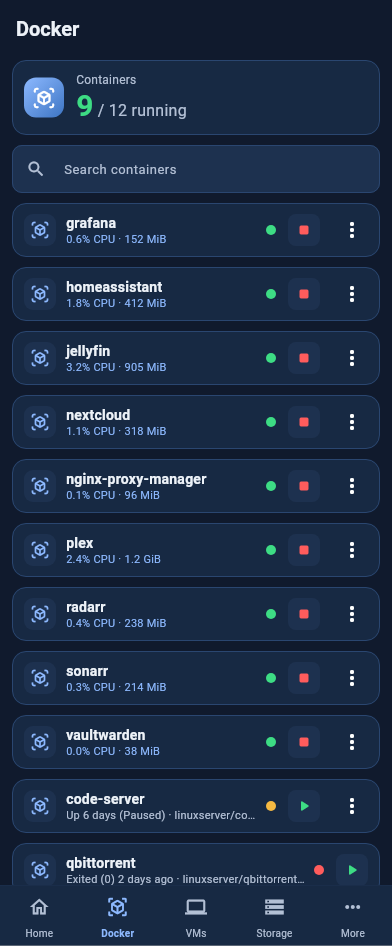
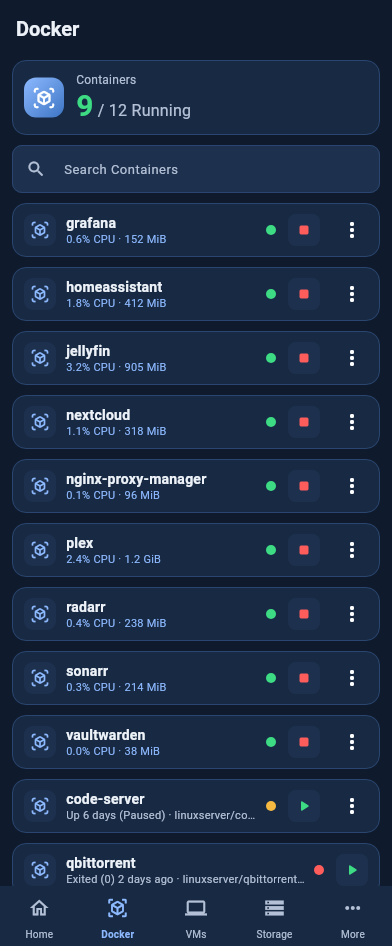
README: describe network, UPS, parity and logs; new screenshots
Screenshots re-rendered from 1.0.2 with demo data, adding the Network
screen, Storage with the parity card and the server log viewer.

diff --git a/README.md b/README.md
@@ -1,14 +1,16 @@
 # urrt
 
-An Android remote for Unraid servers: server health at a glance, Docker containers and VMs you can start and stop, storage and temperatures, and notifications. It uses your own server's official Unraid API: no account, no cloud relay, no tracking.
+An Android remote for Unraid servers: server health at a glance, live network speeds, Docker containers and VMs you can start and stop, storage, drive temperatures and parity checks, a UPS card, the server's logs, and notifications. It uses your own server's official Unraid API: no account, no cloud relay, no tracking.
 
 This repository holds signed release builds only.
 
 <p>
-<img src="screenshots/home.png" width="220" alt="Home: server health, CPU and RAM gauges, storage pools">
+<img src="screenshots/home.png" width="220" alt="Home: server health, CPU and RAM gauges, storage, apps, network speeds and UPS">
 <img src="screenshots/docker.png" width="220" alt="Docker: containers with live CPU and memory">
 <img src="screenshots/vms.png" width="220" alt="VMs: actions valid for each VM's state">
-<img src="screenshots/storage.png" width="220" alt="Storage: pools with their drives and temperatures">
+<img src="screenshots/storage.png" width="220" alt="Storage: pools with their drives and temperatures, and the parity check">
+<img src="screenshots/network.png" width="220" alt="Network: every interface with live speeds, totals and drops">
+<img src="screenshots/logs.png" width="220" alt="Server logs: syslog followed live">
 </p>
 
 Screenshots show a demo server.
@@ -40,4 +42,6 @@ With the Android SDK: `apksigner verify --print-certs urrt-<version>.apk`. The `
 
 ## Good to know
 
+- **UPS card:** shown only when the UPS is set up in Unraid's UPS Settings (apcupsd). The Unraid API does not report a UPS monitored through the NUT plugin (requested upstream: https://github.com/unraid/api/issues/2115).
+- **Parity controls:** Check, Check and Correct, Pause, Resume and Cancel appear only on arrays with a parity disk. They have been tested against the API's replies but not yet on a real array, so use them with care.
 - **VM Shut down:** Unraid asks the guest to shut down, waits about 10 seconds, then cuts power. Shut down slow guests (Windows, Home Assistant OS mid-update) from inside the VM.
